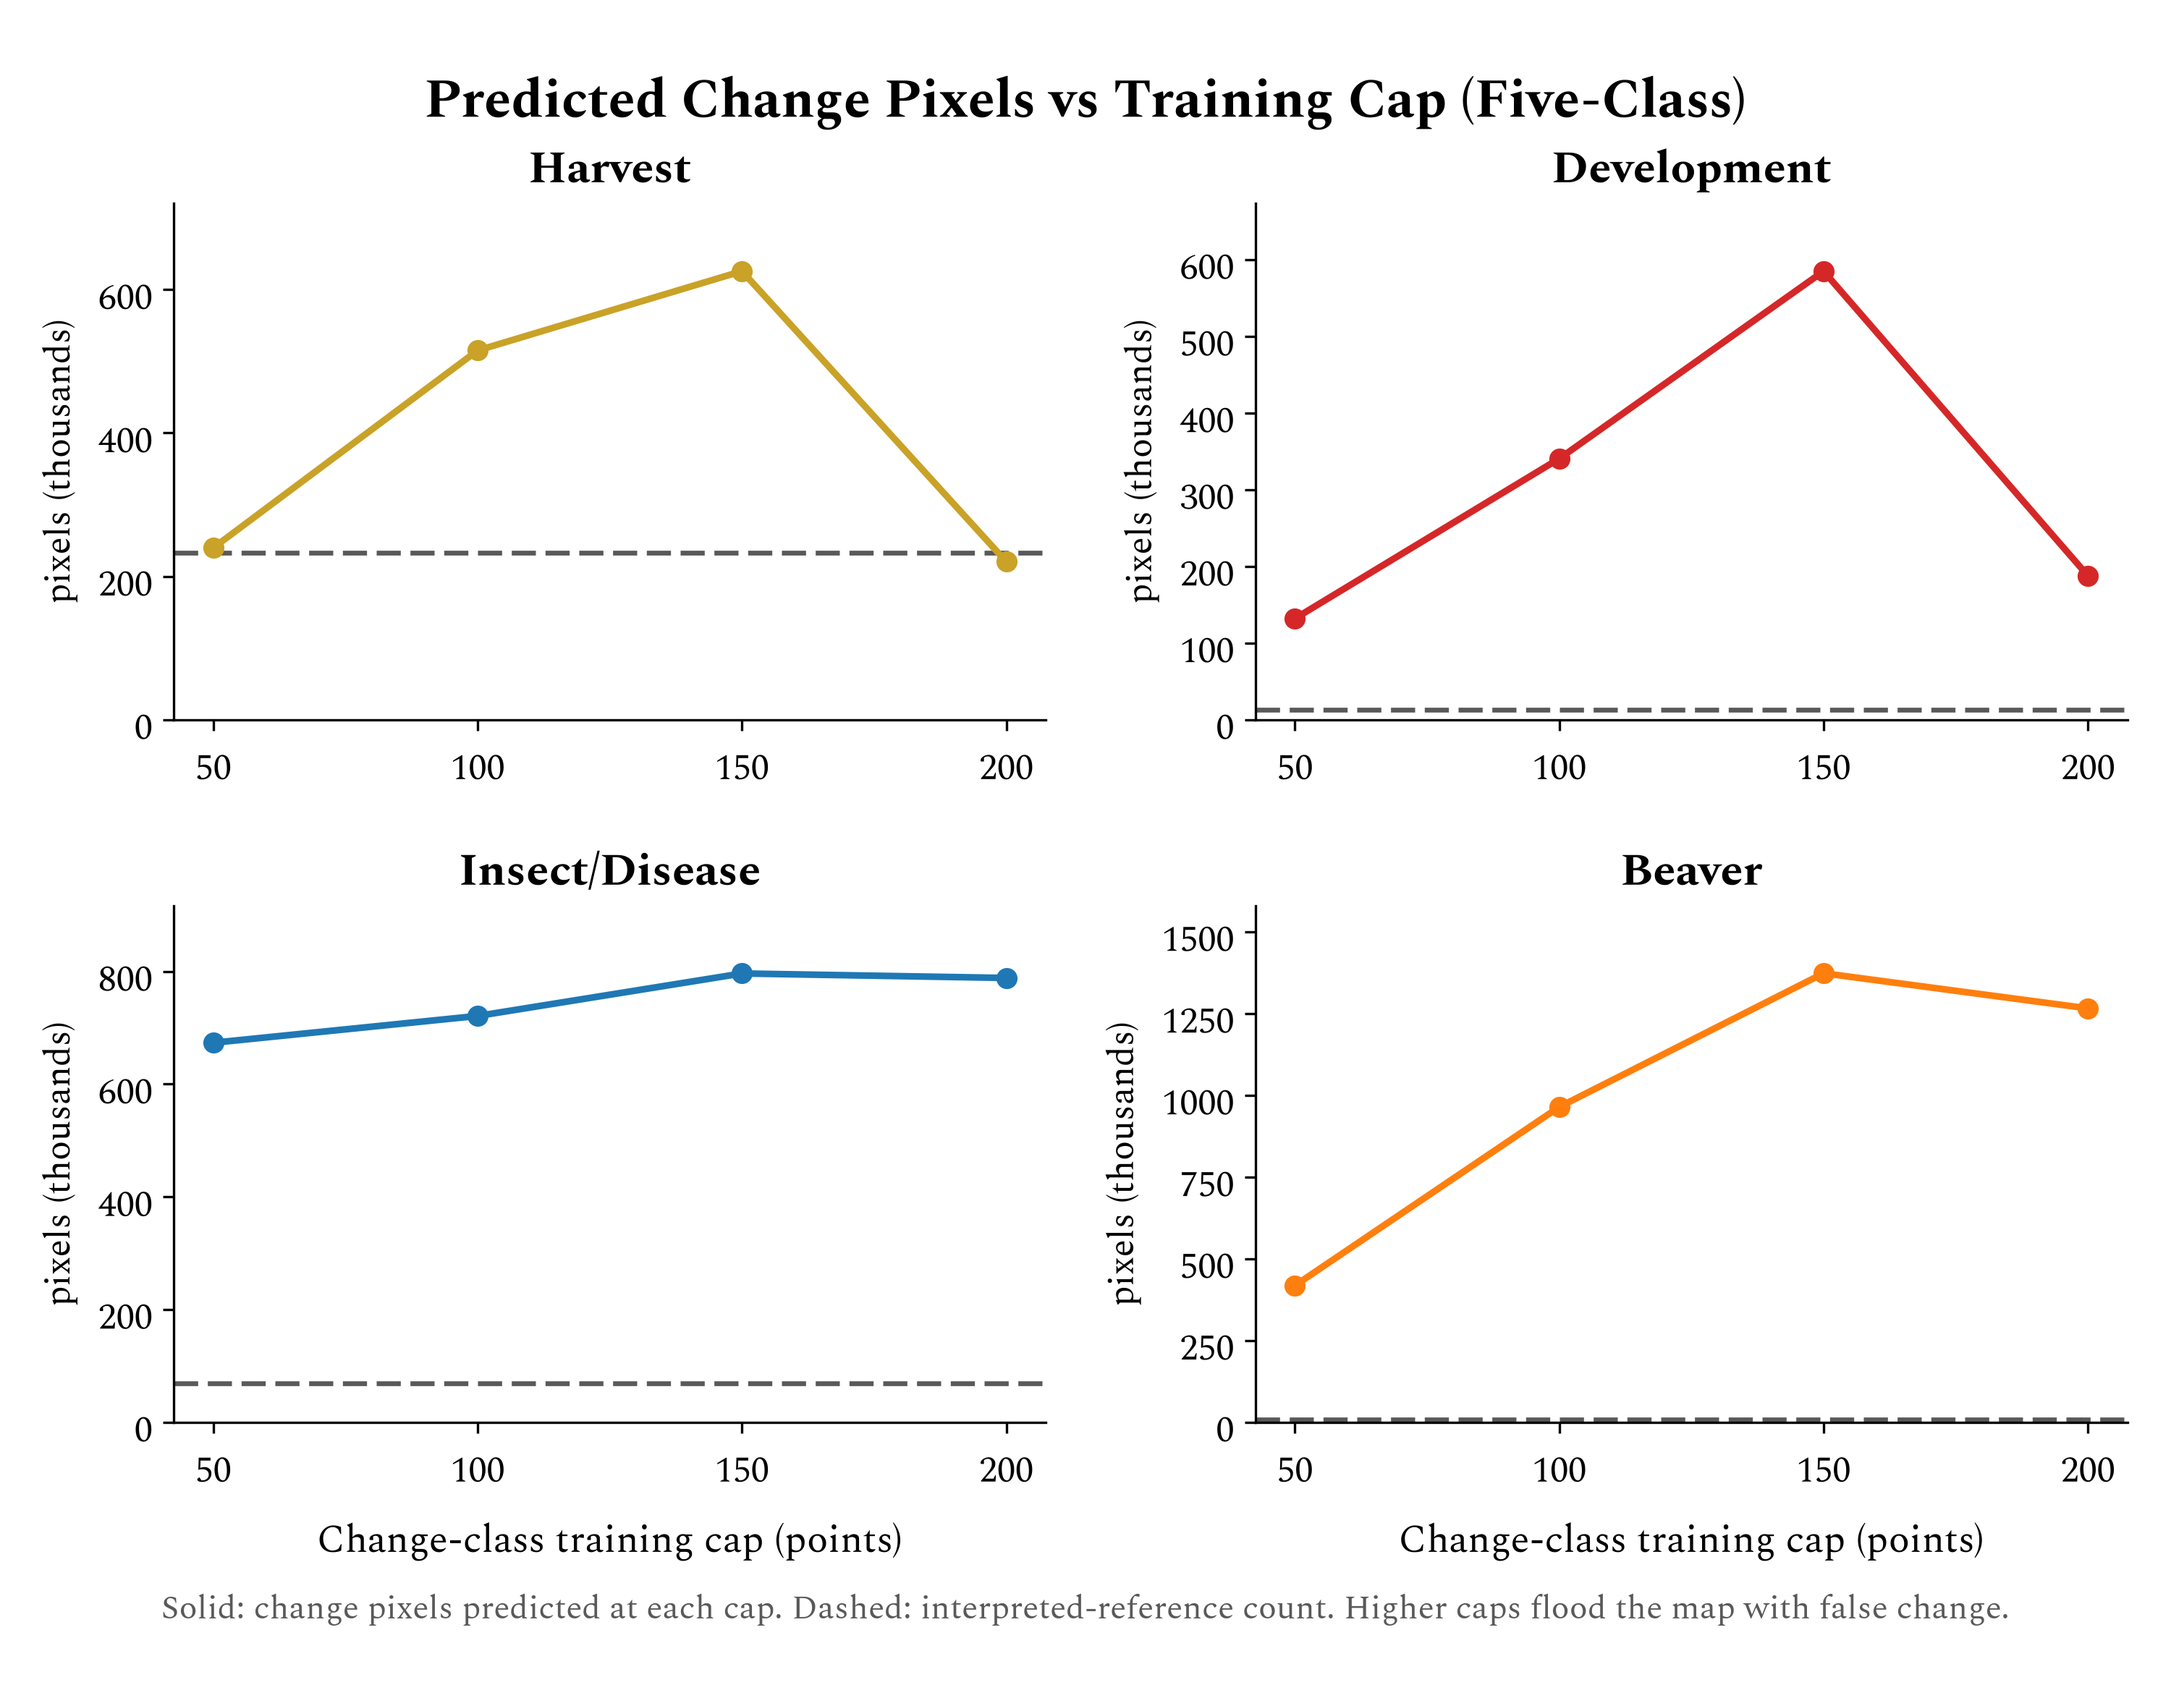
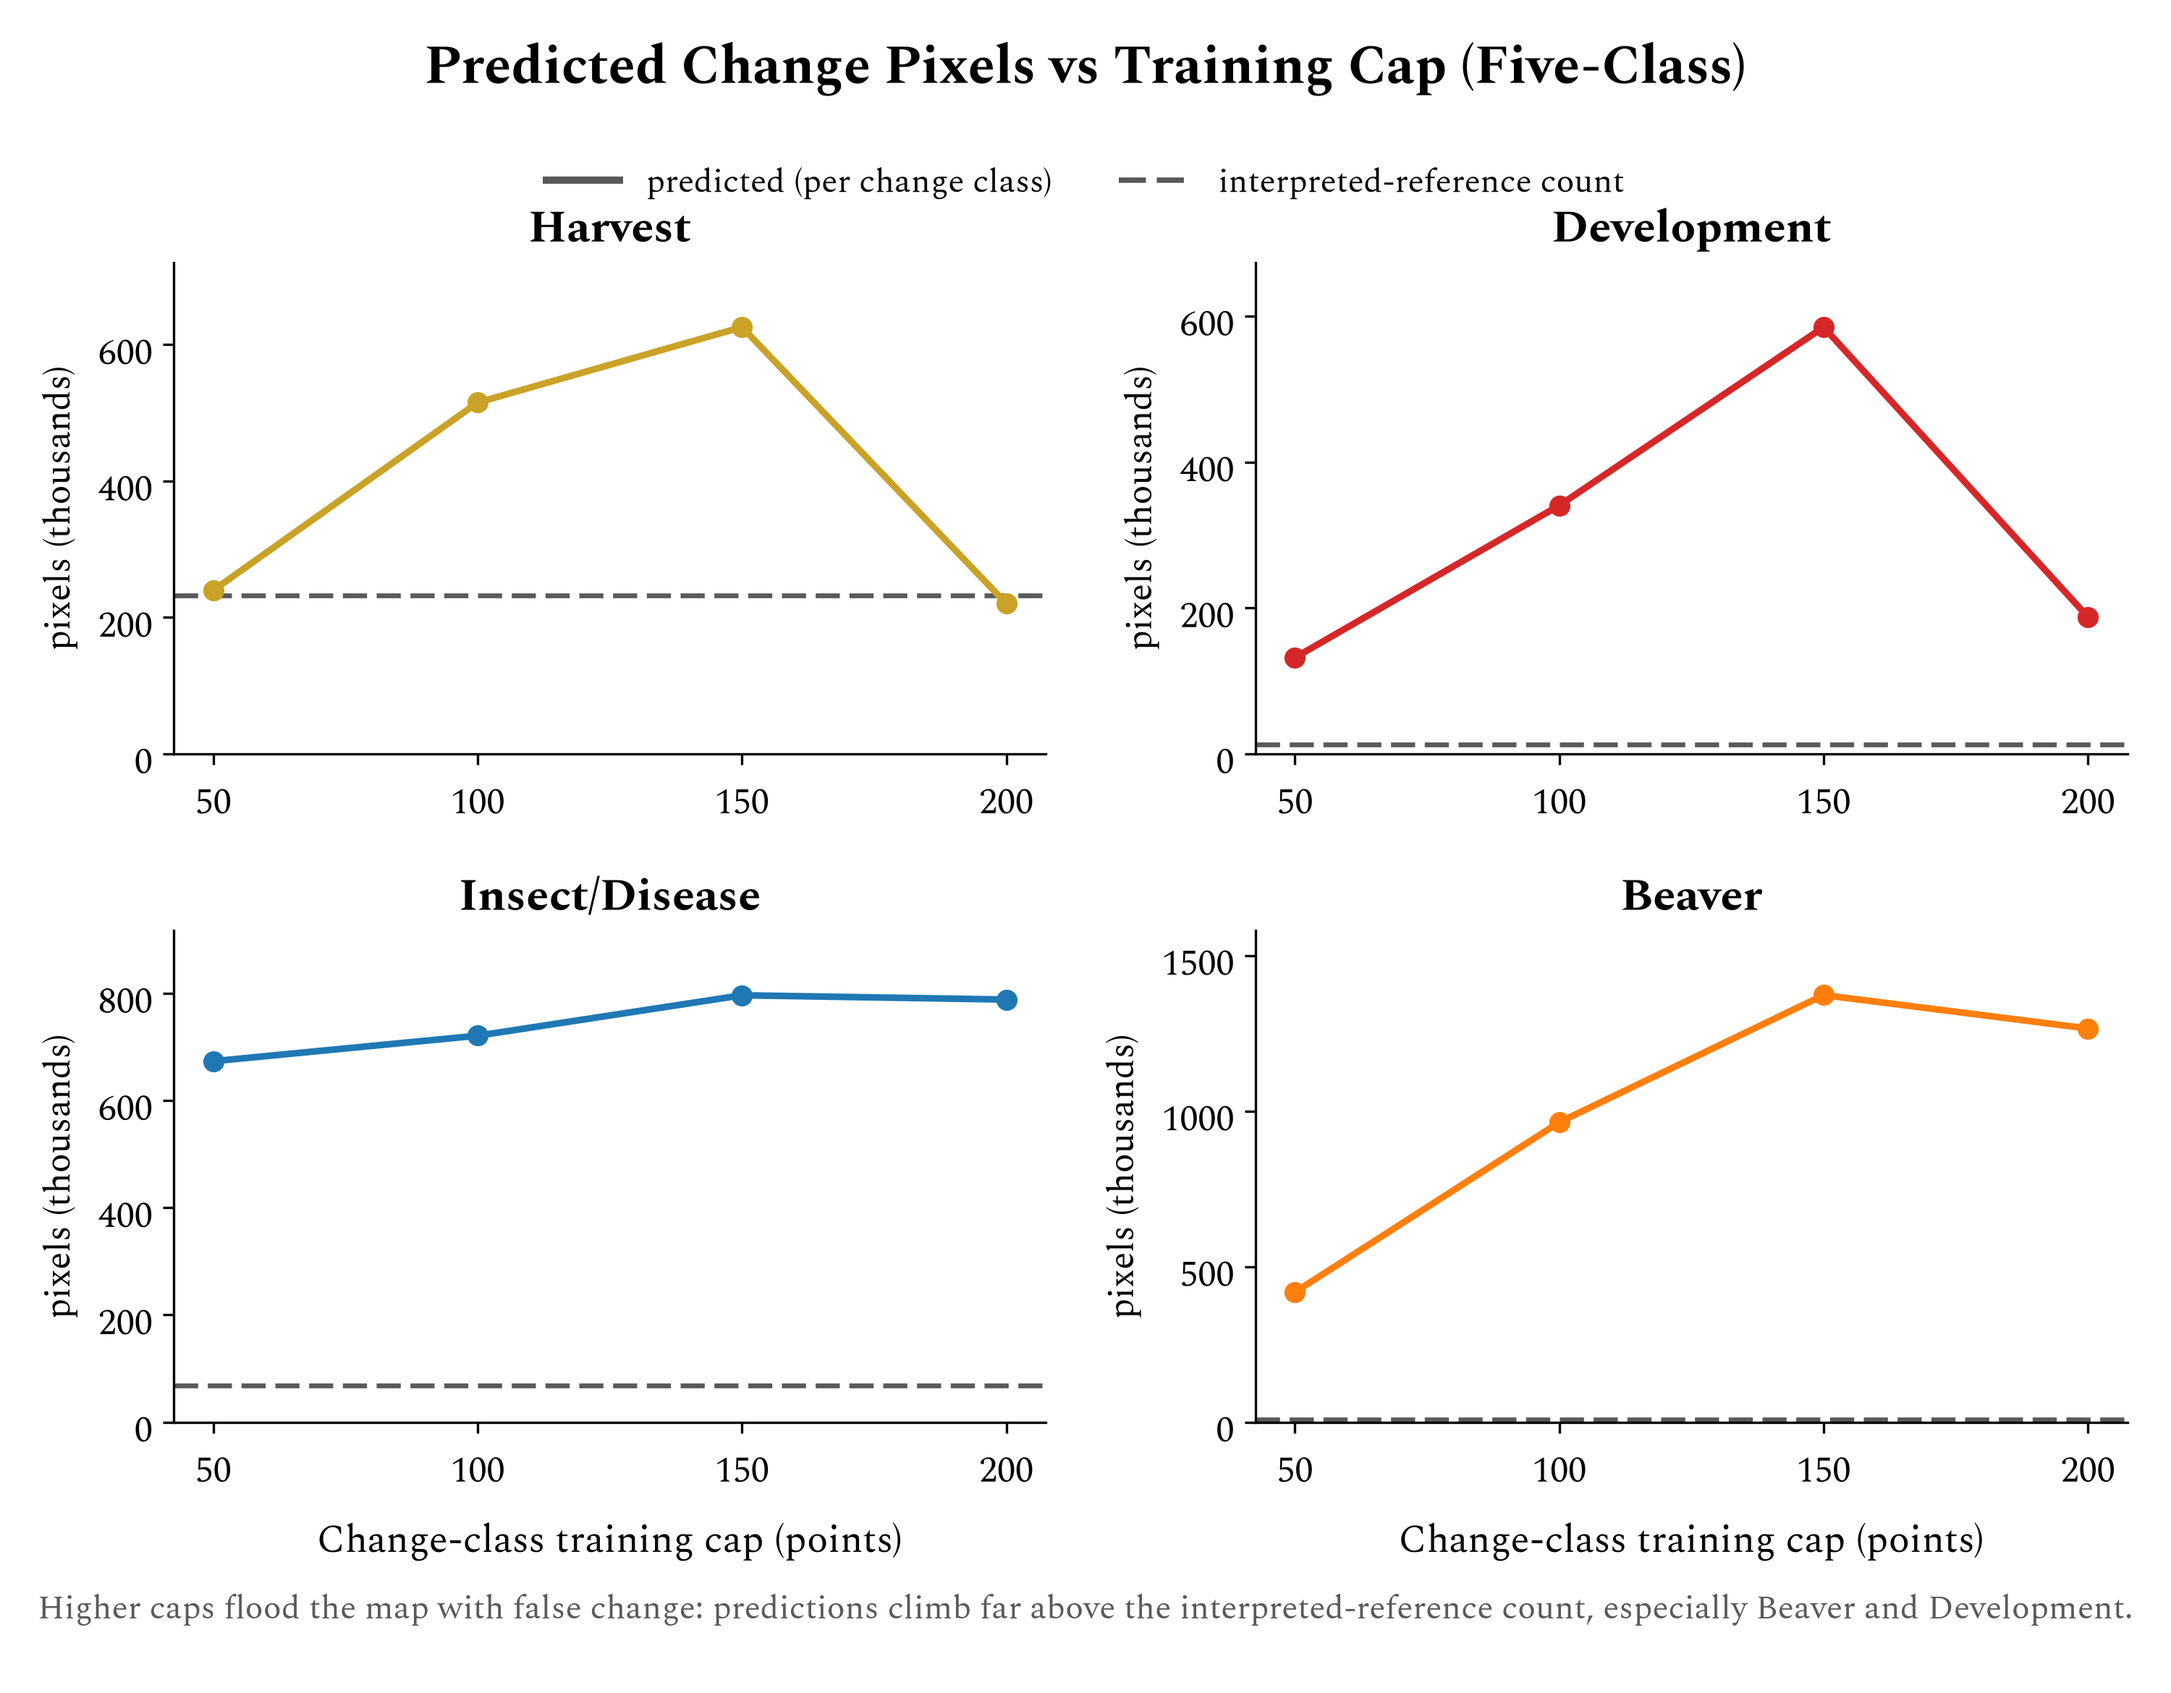
changecap predicted-pixels: add legend labeling the solid/dashed lines

diff --git a/presentation/scripts/pres_changecap_curves.py b/presentation/scripts/pres_changecap_curves.py
@@ -23,6 +23,7 @@ import matplotlib.pyplot as plt
 import slide_font
 import numpy as np
 import pandas as pd
+from matplotlib.lines import Line2D
 slide_font.use_spectral()
 
 HERE = os.path.dirname(os.path.abspath(__file__))
@@ -64,11 +65,15 @@ def predicted_pixels(df):
     for ax in axes[1, :]:
         ax.set_xlabel("Change-class training cap (points)", fontsize=13)
     fig.suptitle("Predicted Change Pixels vs Training Cap (Five-Class)", fontsize=18,
-                 fontweight="bold", y=0.965)
-    fig.text(0.5, 0.035, "Solid: change pixels predicted at each cap. Dashed: interpreted-reference "
-             "count. Higher caps flood the map with false change.",
+                 fontweight="bold", y=0.985)
+    proxies = [Line2D([0], [0], color="0.35", lw=2.4, label="predicted (per change class)"),
+               Line2D([0], [0], color="0.35", lw=1.8, ls=(0, (5, 2)), label="interpreted-reference count")]
+    fig.legend(handles=proxies, loc="upper center", bbox_to_anchor=(0.5, 0.925), ncol=2, fontsize=11,
+               frameon=False, columnspacing=2.0, handlelength=2.2)
+    fig.text(0.5, 0.035, "Higher caps flood the map with false change: predictions climb far above the "
+             "interpreted-reference count, especially Beaver and Development.",
              ha="center", va="bottom", fontsize=11, color="0.35")
-    fig.subplots_adjust(left=0.08, right=0.98, top=0.88, bottom=0.16, hspace=0.36, wspace=0.24)
+    fig.subplots_adjust(left=0.08, right=0.98, top=0.845, bottom=0.16, hspace=0.36, wspace=0.24)
     fig.savefig(os.path.join(OUT_DIR, "changecap_predicted_pixels_vs_cap.png"), dpi=300)
     plt.close(fig)
 
